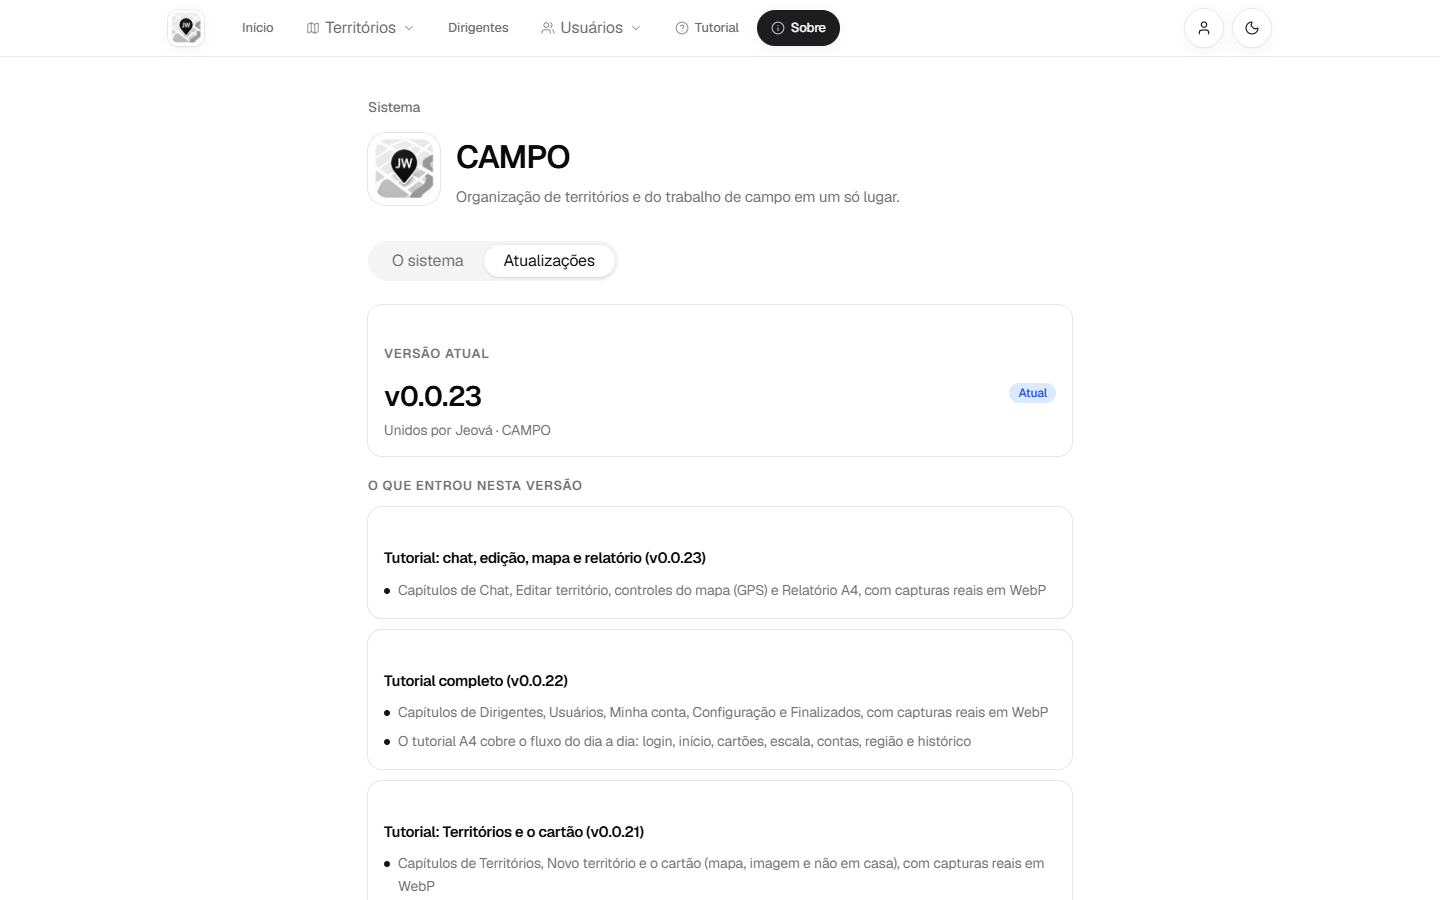
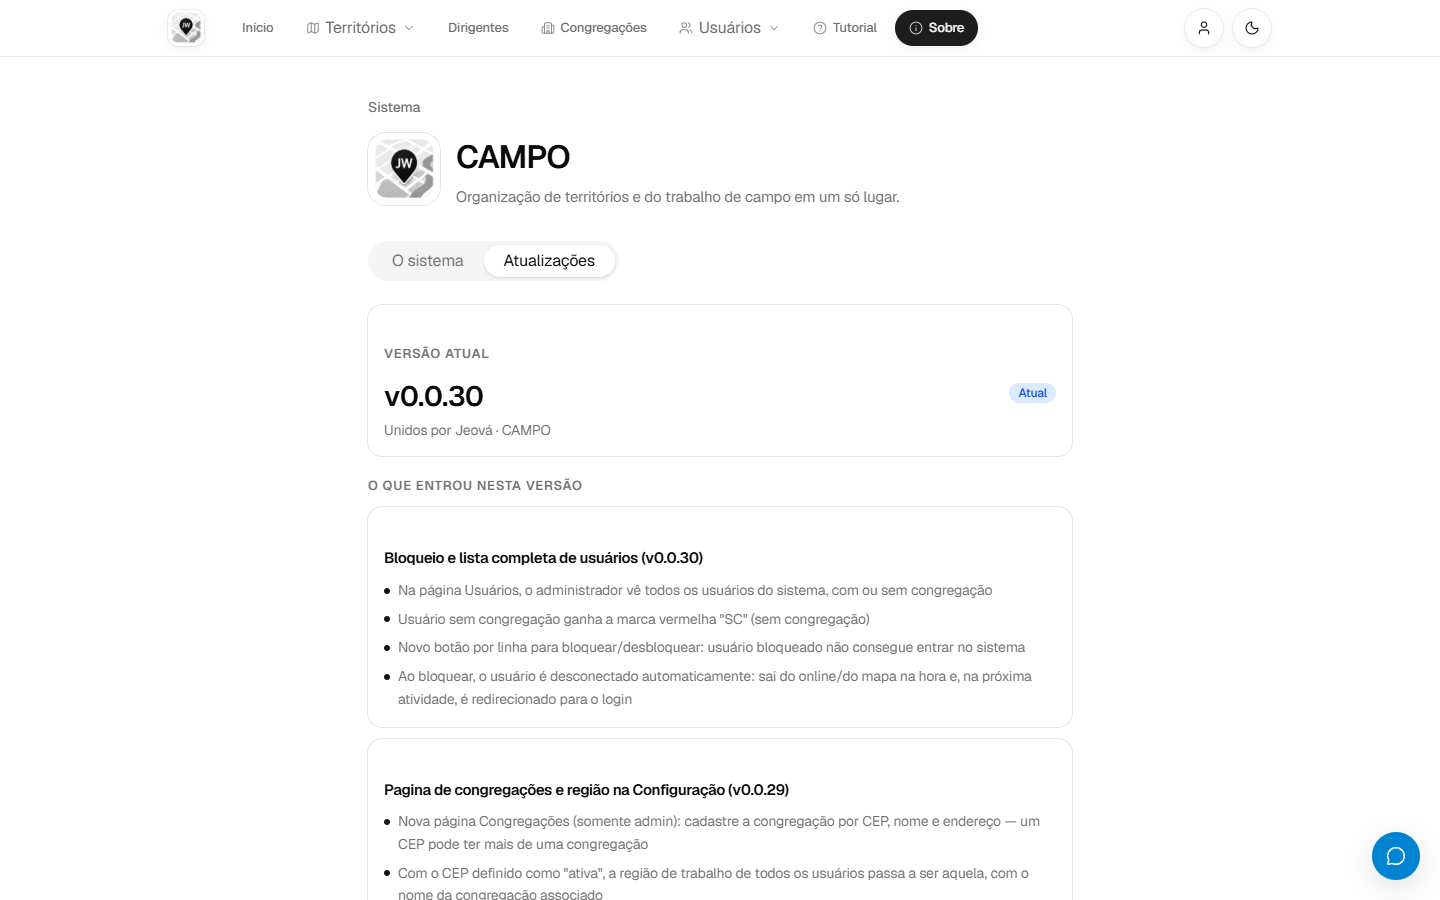
feat: recapturar abas do tutorial (Cartao, Sobre, Finalizados) com Sobre atualizada (v0.0.31)

diff --git a/src/pages/AboutPage.tsx b/src/pages/AboutPage.tsx
@@ -40,6 +40,13 @@ type TabId = 'sistema' | 'atualizacoes';
 /** Atualizações baseadas no histórico de desenvolvimento (commits) */
 const updates: { title: string; items: string[] }[] = [
   {
+    title: 'Tutorial: abas recapturadas (v0.0.31)',
+    items: [
+      'Capturas reais das abas (controle segmentado) do Cartão, Sobre e Finalizados atualizadas no tutorial A4',
+      'Aba Atualizações da Sobre mostra esta versão no tutorial',
+    ],
+  },
+  {
     title: 'Bloqueio e lista completa de usuários (v0.0.30)',
     items: [
       'Na página Usuários, o administrador vê todos os usuários do sistema, com ou sem congregação',

diff --git a/src/lib/version.ts b/src/lib/version.ts
@@ -1,2 +1,2 @@
 /** Versão do CAMPO (Sobre, login e docs no app) */
-export const APP_VERSION = 'v0.0.30';
+export const APP_VERSION = 'v0.0.31';
